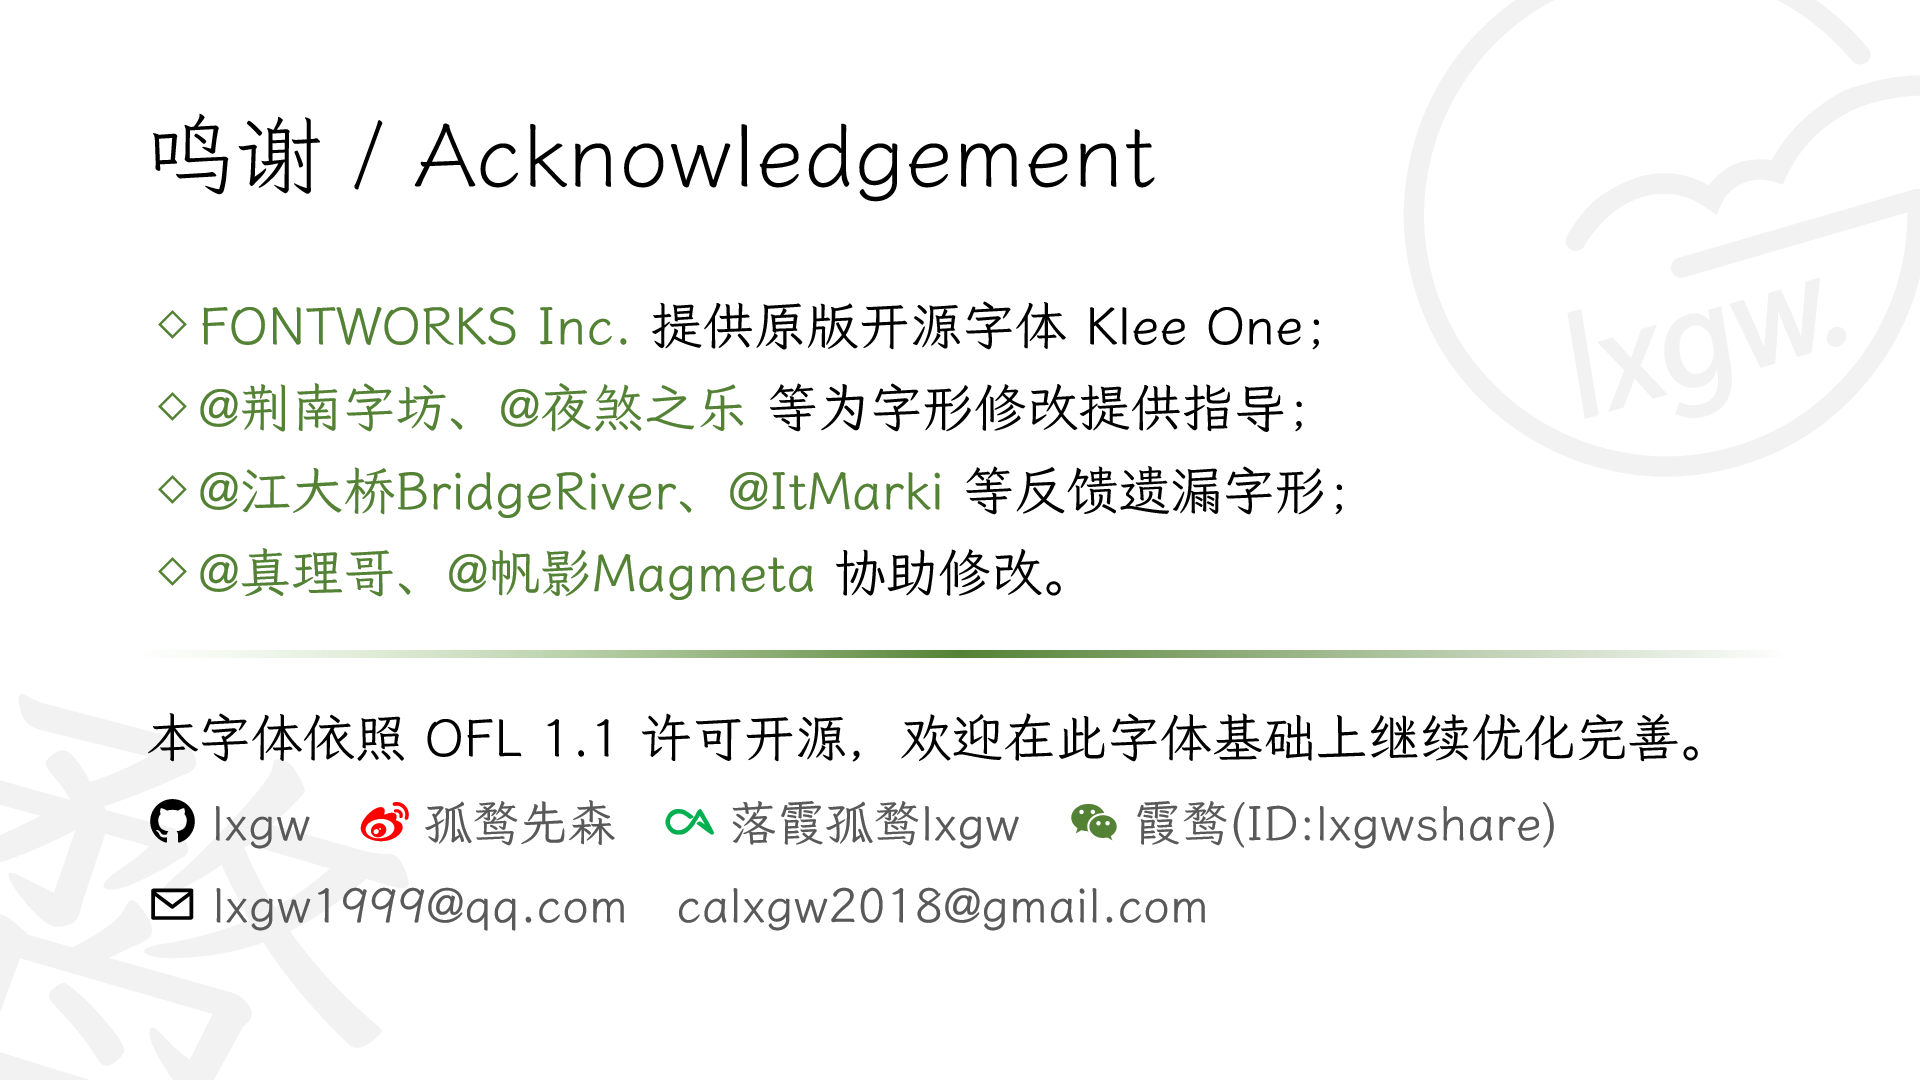
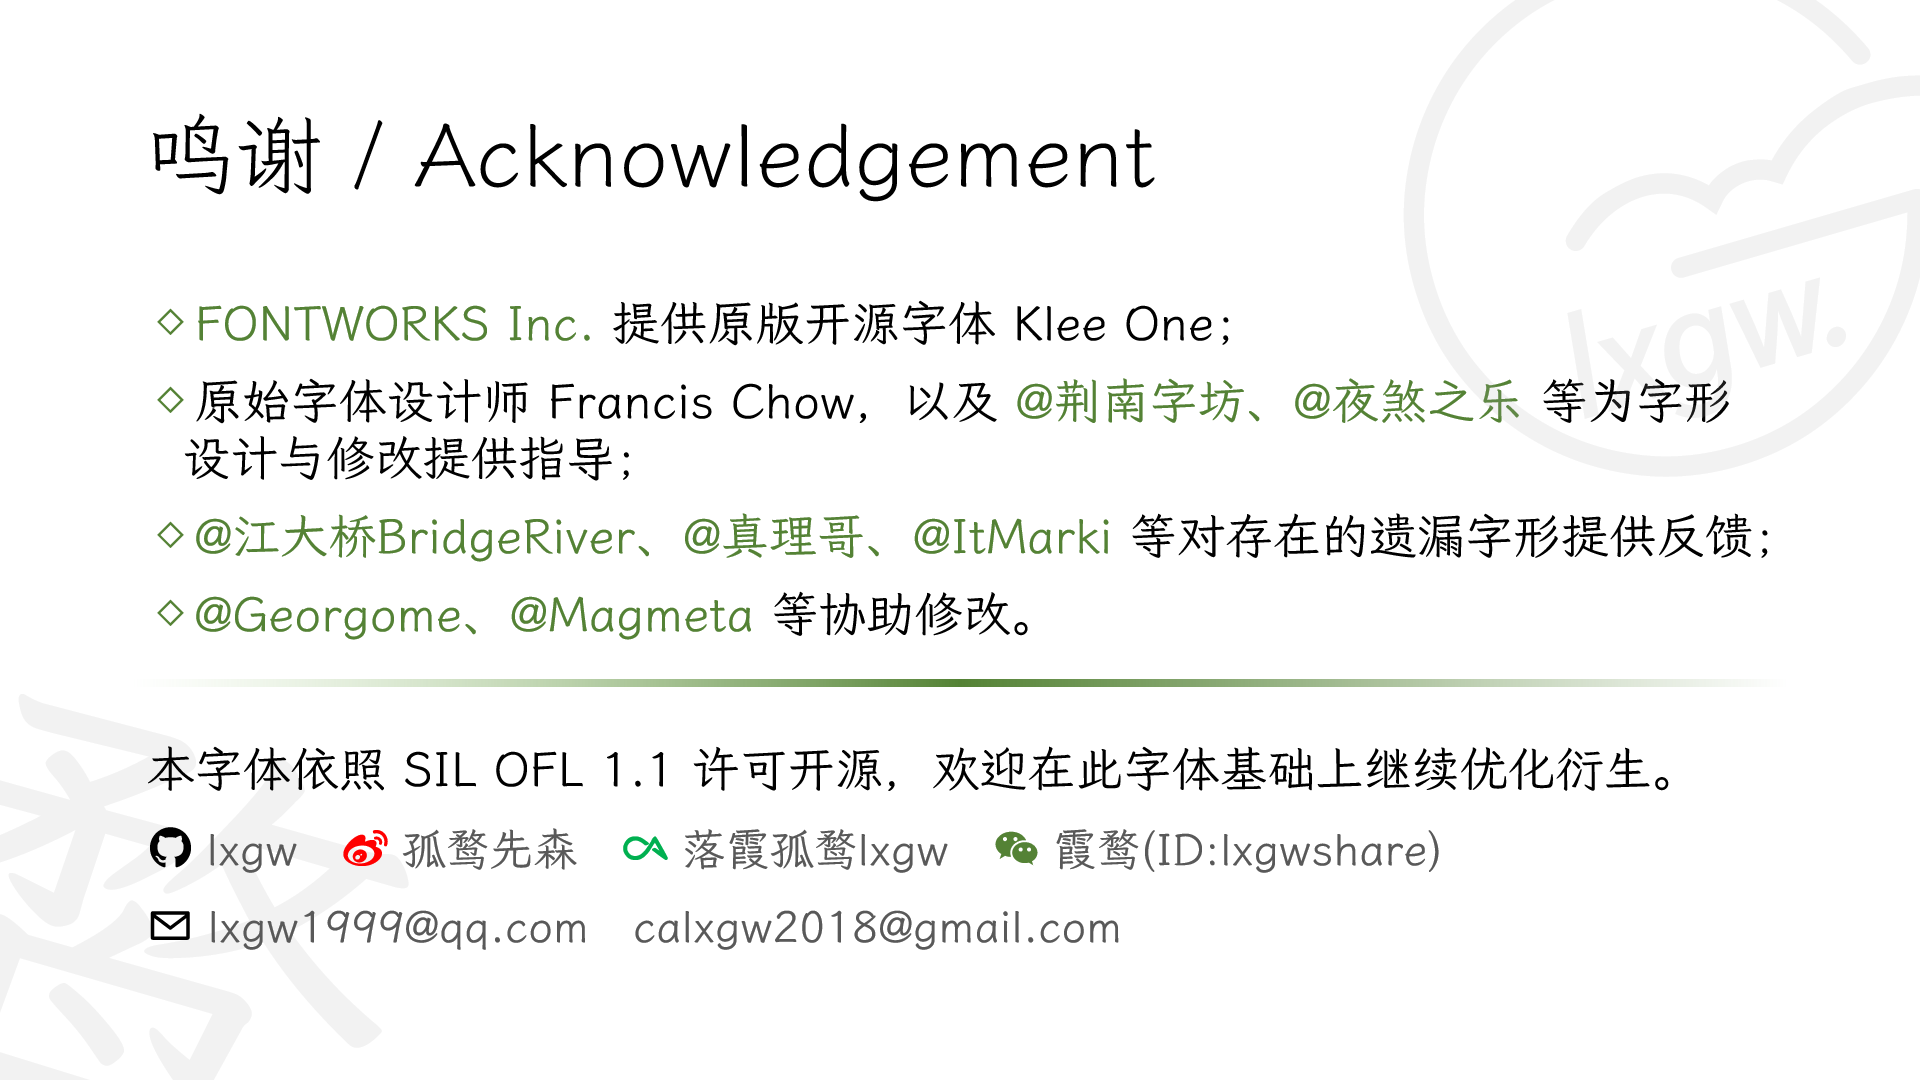
update readme

Changed region(s): [[0.0625, 0.275, 0.9375, 0.8861]]

diff --git a/README.md b/README.md
@@ -76,15 +76,16 @@ An open-source Simplified Chinese font derived from Klee One. 一款开源中文
 ### 限制
 
 - 在制作衍生字体时，字体名称不可使用原有字体的「保留名称」。本字体保留名称「霞鹜」「LXGW」，基于本字体二次衍生的字体，名称不可出现「霞鹜」或「LXGW」字样；而在没有对字体源代码进行修改的情况下，重新编译出来的字体，可以继续使用本字体的保留名称「霞鹜」「LXGW」。
-- 根据 [SIL Open Font License 1.1](https://scripts.sil.org/OFL) 的规定， **禁止单独出售字体文件(OTF/TTF文件)的行为。**
+- 根据 [SIL Open Font License 1.1](https://scripts.sil.org/OFL)「许可与条件」中第 1 条的规定， **禁止单独出售字体文件(OTF/TTF文件)的行为。**
 - 该字体不可在 [SIL Open Font License 1.1](https://scripts.sil.org/OFL) 以外的授权许可下发行。
 
 ## 鸣谢
 
 - [FONTWORKS 株式会社](http://fontworks.co.jp) 提供原版开源字体； [开发者 GitHub 主页](https://github.com/fontworks-fonts/)
-- @荆南字坊、[@夜煞之乐](https://github.com/NightFurySL2001) 等为字形设计提供指导；
-- [@江大桥BridgeRiver](https://space.bilibili.com/431213752?spm_id_from=333.337.0.0)、[@ItMarki](https://github.com/ItMarki)、[@真理哥](https://github.com/zhenlige) 等对字形修改提供反馈；
-- 部分字形和笔形参考 [「芫荽」/ Iansui](https://github.com/ButTaiwan/iansui)。
+- 原始字体的设计师 Francis Chow，以及 @荆南字坊、[@夜煞之乐](https://github.com/NightFurySL2001) 等为字形设计与修改提供指导；
+- @Georgome、[@Magmeta](https://github.com/Des-Magmeta) 等协助完善字体；
+- [@江大桥BridgeRiver](https://space.bilibili.com/431213752?spm_id_from=333.337.0.0)、[@ItMarki](https://github.com/ItMarki)、[@真理哥](https://github.com/zhenlige) 等对修改过程中存在的遗漏字形提供反馈；
+- 部分字形和笔形参考[「芫荽」/ Iansui](https://github.com/ButTaiwan/iansui)、[「芫茜雅楷」/ Jyunsai Kaai](https://github.com/ItMarki/jyunsaikaai)。
 
 ## 相关资料
 - [通用规范汉字表](http://www.moe.gov.cn/jyb_sjzl/ziliao/A19/201306/t20130601_186002.html)
